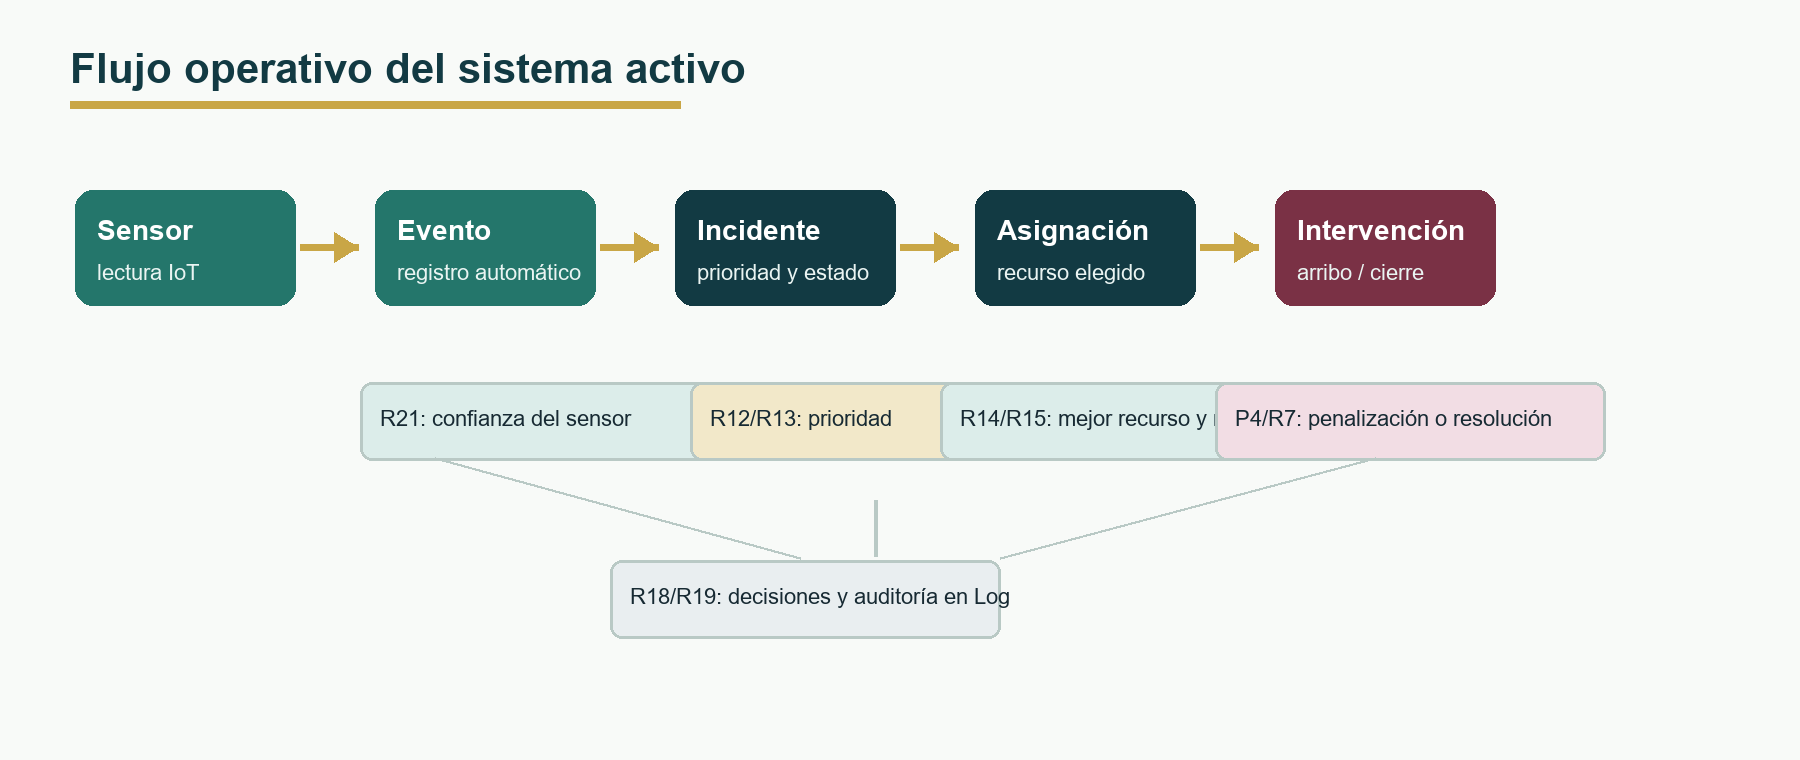
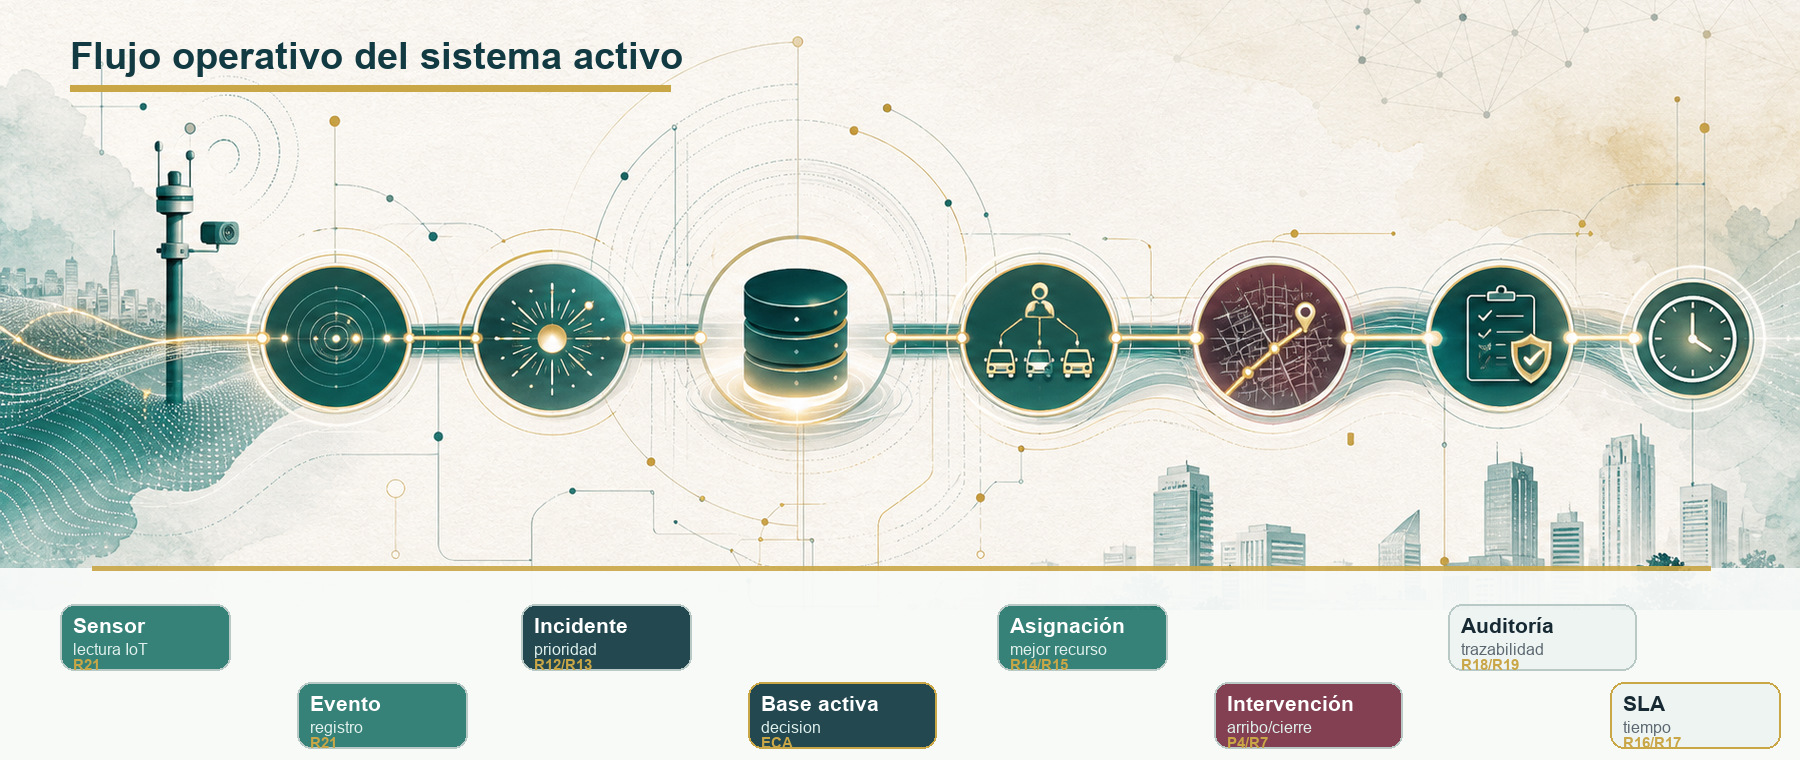
Add image enhancer script and update report
Add mejorar_imagenes_informe.py to generate and compose improved cover and flow images from AI base assets, and replace the corresponding images inside Informe_TP1_Bases_de_Datos_Activas_Smart_City.docx. Includes new AI base images (portada_smart_city_ai_base.png, flujo_operativo_ai_base.png), regenerated assets (portada_smart_city.png, flujo_operativo.png) and the updated .docx. The script automates image resizing, drawing of labels/overlays, and injects the new images into word/media/image1.png and word/media/image2.png inside the document.

diff --git a/documentacion/mejorar_imagenes_informe.py b/documentacion/mejorar_imagenes_informe.py
@@ -1,0 +1,172 @@
+from pathlib import Path
+from tempfile import NamedTemporaryFile
+from zipfile import ZipFile, ZIP_DEFLATED
+
+from PIL import Image, ImageDraw, ImageFont
+
+
+ROOT = Path(__file__).resolve().parents[1]
+ASSETS = ROOT / "documentacion" / "assets_informe"
+DOCX = ROOT / "documentacion" / "Informe_TP1_Bases_de_Datos_Activas_Smart_City.docx"
+
+PALETTE = {
+    "ink": "172A33",
+    "petrol": "123A43",
+    "teal": "24766B",
+    "gold": "C9A646",
+    "wine": "7A3145",
+    "paper": "F8FAF8",
+    "soft": "EEF4F2",
+    "gray": "5B6770",
+    "white": "FFFFFF",
+}
+
+
+def font(size, bold=False):
+    candidates = [
+        "C:/Windows/Fonts/aptos-display-bold.ttf" if bold else "C:/Windows/Fonts/aptos.ttf",
+        "C:/Windows/Fonts/arialbd.ttf" if bold else "C:/Windows/Fonts/arial.ttf",
+        "C:/Windows/Fonts/calibrib.ttf" if bold else "C:/Windows/Fonts/calibri.ttf",
+    ]
+    for candidate in candidates:
+        path = Path(candidate)
+        if path.exists():
+            return ImageFont.truetype(str(path), size)
+    return ImageFont.load_default()
+
+
+def hex_to_rgb(value, alpha=255):
+    value = value.lstrip("#")
+    return (int(value[0:2], 16), int(value[2:4], 16), int(value[4:6], 16), alpha)
+
+
+def crop_resize_cover(img, size):
+    target_w, target_h = size
+    src_w, src_h = img.size
+    scale = max(target_w / src_w, target_h / src_h)
+    resized = img.resize((round(src_w * scale), round(src_h * scale)), Image.Resampling.LANCZOS)
+    left = (resized.width - target_w) // 2
+    top = (resized.height - target_h) // 2
+    return resized.crop((left, top, left + target_w, top + target_h))
+
+
+def make_cover():
+    base = Image.open(ASSETS / "portada_smart_city_ai_base.png").convert("RGB")
+    img = crop_resize_cover(base, (1800, 620)).convert("RGBA")
+    overlay = Image.new("RGBA", img.size, (0, 0, 0, 0))
+    draw = ImageDraw.Draw(overlay)
+
+    draw.rounded_rectangle([76, 80, 690, 458], radius=28, fill=(18, 58, 67, 218))
+    draw.rectangle([76, 414, 690, 458], fill=(201, 166, 70, 230))
+    draw.line([118, 404, 560, 404], fill=hex_to_rgb(PALETTE["gold"]), width=6)
+
+    draw.text((116, 132), "SMART", font=font(82, True), fill=hex_to_rgb(PALETTE["white"]))
+    draw.text((116, 216), "CITY", font=font(82, True), fill=hex_to_rgb(PALETTE["white"]))
+    draw.text((120, 326), "Bases de Datos Activas", font=font(32), fill=(224, 241, 237, 255))
+    draw.text((120, 374), "Sistema de emergencias urbanas", font=font(22), fill=(248, 250, 248, 235))
+
+    final = Image.alpha_composite(img, overlay).convert("RGB")
+    out = ASSETS / "portada_smart_city.png"
+    final.save(out, quality=95)
+    return out
+
+
+def make_flow():
+    base = Image.open(ASSETS / "flujo_operativo_ai_base.png").convert("RGB")
+    src_w, src_h = base.size
+    target_w, target_h = 1800, 760
+    visual_h = 610
+
+    scale = max(target_w / src_w, visual_h / src_h)
+    resized = base.resize((round(src_w * scale), round(src_h * scale)), Image.Resampling.LANCZOS)
+    left = max(0, (resized.width - target_w) // 2)
+    top = max(0, round((resized.height - visual_h) * 0.32))
+    crop = resized.crop((left, top, left + target_w, top + visual_h))
+
+    canvas = Image.new("RGB", (target_w, target_h), "#" + PALETTE["paper"])
+    canvas.paste(crop, (0, 0))
+    overlay = Image.new("RGBA", canvas.size, (0, 0, 0, 0))
+    draw = ImageDraw.Draw(overlay)
+
+    draw.rectangle([0, 568, target_w, target_h], fill=(248, 250, 248, 244))
+    draw.line([92, 568, 1710, 568], fill=(201, 166, 70, 230), width=5)
+    draw.text((70, 34), "Flujo operativo del sistema activo", font=font(38, True), fill=hex_to_rgb(PALETTE["petrol"]))
+    draw.line([70, 88, 670, 88], fill=hex_to_rgb(PALETTE["gold"]), width=7)
+
+    nodes = [
+        (145, "Sensor", "lectura IoT", "R21"),
+        (382, "Evento", "registro", "R21"),
+        (606, "Incidente", "prioridad", "R12/R13"),
+        (842, "Base activa", "decision", "ECA"),
+        (1082, "Asignación", "mejor recurso", "R14/R15"),
+        (1308, "Intervención", "arribo/cierre", "P4/R7"),
+        (1542, "Auditoría", "trazabilidad", "R18/R19"),
+        (1710, "SLA", "tiempo", "R16/R17"),
+    ]
+
+    label_font = font(21, True)
+    small_font = font(16)
+    code_font = font(15, True)
+
+    for idx, (x, title, subtitle, code) in enumerate(nodes):
+        y = 604 if idx % 2 == 0 else 682
+        w = 170
+        if title in ("Base activa", "Intervención", "Auditoría"):
+            w = 188
+        x0 = max(20, min(target_w - w - 20, x - w // 2))
+
+        fill = (36, 118, 107, 232)
+        if title in ("Incidente", "Base activa", "Asignacion"):
+            fill = (18, 58, 67, 236)
+        if title == "Intervención":
+            fill = (122, 49, 69, 236)
+        if title in ("Auditoría", "SLA"):
+            fill = (238, 244, 242, 244)
+
+        text_color = (255, 255, 255, 255)
+        muted = (224, 241, 237, 255)
+        if title in ("Auditoría", "SLA"):
+            text_color = hex_to_rgb(PALETTE["ink"])
+            muted = hex_to_rgb(PALETTE["gray"])
+
+        border = hex_to_rgb(PALETTE["gold"]) if title in ("Base activa", "SLA") else (185, 201, 197, 255)
+        draw.rounded_rectangle([x0, y, x0 + w, y + 66], radius=14, fill=fill, outline=border, width=2)
+        draw.text((x0 + 13, y + 9), title, font=label_font, fill=text_color)
+        draw.text((x0 + 13, y + 36), subtitle, font=small_font, fill=muted)
+        draw.text((x0 + 13, y + 52), code, font=code_font, fill=hex_to_rgb(PALETTE["gold"]))
+
+    final = Image.alpha_composite(canvas.convert("RGBA"), overlay).convert("RGB")
+    out = ASSETS / "flujo_operativo.png"
+    final.save(out, quality=95)
+    return out
+
+
+def replace_docx_images(cover_path, flow_path):
+    replacements = {
+        "word/media/image1.png": cover_path,
+        "word/media/image2.png": flow_path,
+    }
+    with NamedTemporaryFile(delete=False, suffix=".docx") as tmp:
+        tmp_path = Path(tmp.name)
+
+    with ZipFile(DOCX, "r") as source, ZipFile(tmp_path, "w", ZIP_DEFLATED) as target:
+        for item in source.infolist():
+            if item.filename in replacements:
+                target.writestr(item, replacements[item.filename].read_bytes())
+            else:
+                target.writestr(item, source.read(item.filename))
+
+    tmp_path.replace(DOCX)
+
+
+def main():
+    cover = make_cover()
+    flow = make_flow()
+    replace_docx_images(cover, flow)
+    print(cover)
+    print(flow)
+    print(DOCX)
+
+
+if __name__ == "__main__":
+    main()